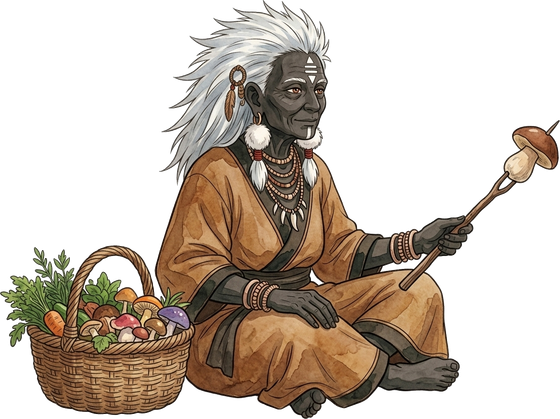
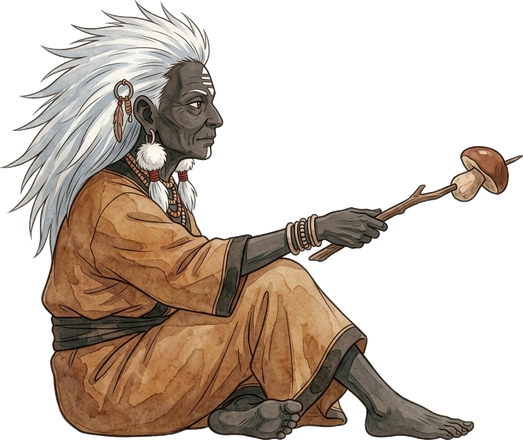
ajuste na tela iniial

diff --git a/src/app/globals.css b/src/app/globals.css
@@ -934,10 +934,48 @@ button {
 }
 
 .chinu-hotspot.is-on-ground {
-	left: 27.5%;
-	top: 32.5%;
-	width: 19.5%;
-	aspect-ratio: 560 / 419;
+	left: 30.2%;
+	top: 33.5%;
+	width: 15.2%;
+	aspect-ratio: 523 / 440;
+}
+
+/* Cesto tribal separado da Chinu no chão (fácil de posicionar independentemente) */
+.chinu-basket-prop {
+	position: absolute;
+	left: 24.5%;
+	top: 41.5%;
+	width: 7.4%;
+	aspect-ratio: 420 / 380;
+	z-index: 9;
+	pointer-events: none;
+}
+
+.chinu-basket-prop::after {
+	content: "";
+	position: absolute;
+	left: 50%;
+	bottom: -4%;
+	width: 82%;
+	height: 18%;
+	transform: translateX(-50%);
+	border-radius: 50%;
+	background: radial-gradient(
+		ellipse,
+		rgba(14, 20, 12, 0.52) 0%,
+		rgba(14, 20, 12, 0.22) 55%,
+		transparent 80%
+	);
+	filter: blur(3px);
+	z-index: -1;
+}
+
+.chinu-basket-img {
+	width: 100%;
+	height: 100%;
+	object-fit: contain;
+	filter: var(--scenery-filter);
+	transition: filter 0.2s linear;
 }
 
 .chinu-hotspot.is-on-cave {
@@ -1140,9 +1178,15 @@ button {
 	}
 
 	.chinu-hotspot.is-on-ground {
-		left: 25.5%;
-		width: 23.0%;
-		top: 31.0%;
+		left: 28.5%;
+		width: 18.0%;
+		top: 32.5%;
+	}
+
+	.chinu-basket-prop {
+		left: 22.0%;
+		top: 41.0%;
+		width: 9.2%;
 	}
 
 	.chinu-hotspot.is-on-cave {

diff --git a/src/app/page.tsx b/src/app/page.tsx
@@ -171,6 +171,19 @@ export default function HomePage() {
 					</Link>
 
 					{/* 4. CHINU (-> Apoie) — alterna de lugar com o Cogumelo ao recarregar */}
+					{mushroomOnCave && (
+						<div
+							className="chinu-basket-prop"
+							aria-hidden="true"
+							style={{
+								opacity: mushroomReady ? 1 : 0,
+								transition: "opacity 1.15s cubic-bezier(0.22, 1, 0.36, 1) 0.08s",
+							}}
+						>
+							<FadeImage className="chinu-basket-img" src="/ghibli/chinu-basket.png" alt="" />
+						</div>
+					)}
+
 					<Link
 						href="/apoie"
 						className={`island-hotspot chinu-hotspot${mushroomOnCave ? " is-on-ground" : " is-on-cave"}`}
